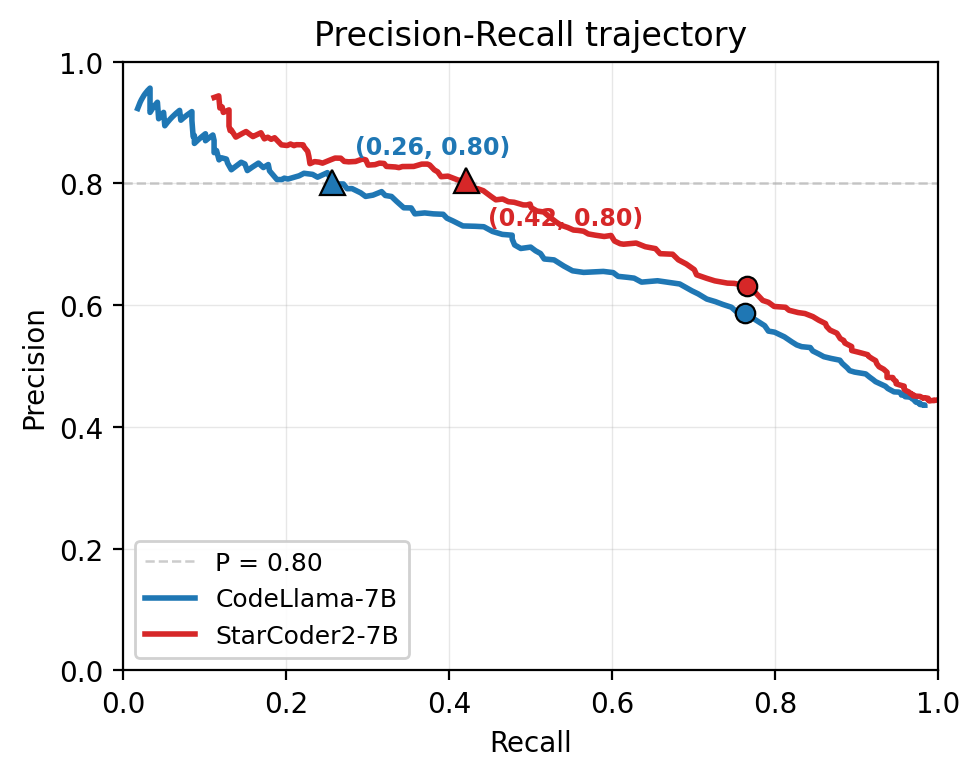
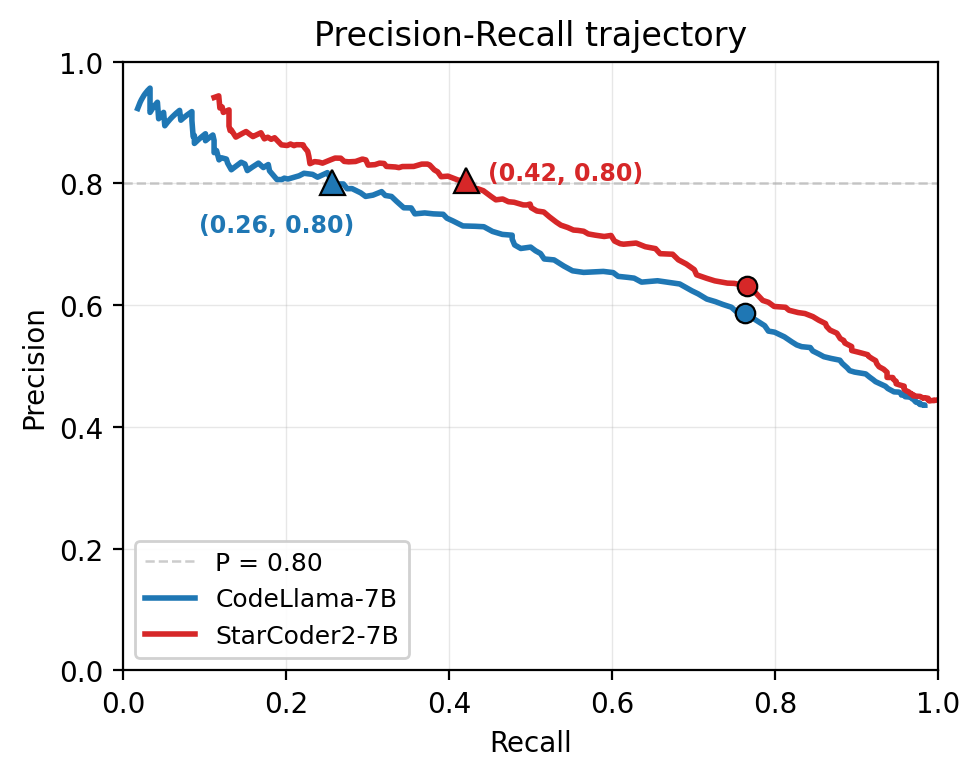
2026-05-18 23:43
Updated

Changed region(s): [[0.3673, 0.1544, 0.6735, 0.3089], [0.1837, 0.278, 0.3673, 0.3089]]

diff --git a/code-detection/plot_threshold_multi_llms.py b/code-detection/plot_threshold_multi_llms.py
@@ -283,7 +283,15 @@ def plot_pr_panel(
                         color=color, markersize=9,
                         markeredgecolor="black", markeredgewidth=0.8, zorder=3)
                 if show_annotations:
-                    offset_x, offset_y = ANNOTATION_OFFSETS[idx % len(ANNOTATION_OFFSETS)]
+                    # offset_x, offset_y = ANNOTATION_OFFSETS[idx % len(ANNOTATION_OFFSETS)]
+                    pr_annotation_offsets = [
+                        (-48, -18),   # CodeLlama: move blue label downward/right
+                        (8, 0),      # StarCoder2: move red label upward/right
+                        (-90, -18),
+                        (-90, 18),
+                    ]
+                    offset_x, offset_y = pr_annotation_offsets[idx % len(pr_annotation_offsets)]
+                    
                     ax.annotate(
                         f"({recall[hp_idx]:.2f}, {precision[hp_idx]:.2f})",
                         xy=(recall[hp_idx], precision[hp_idx]),
